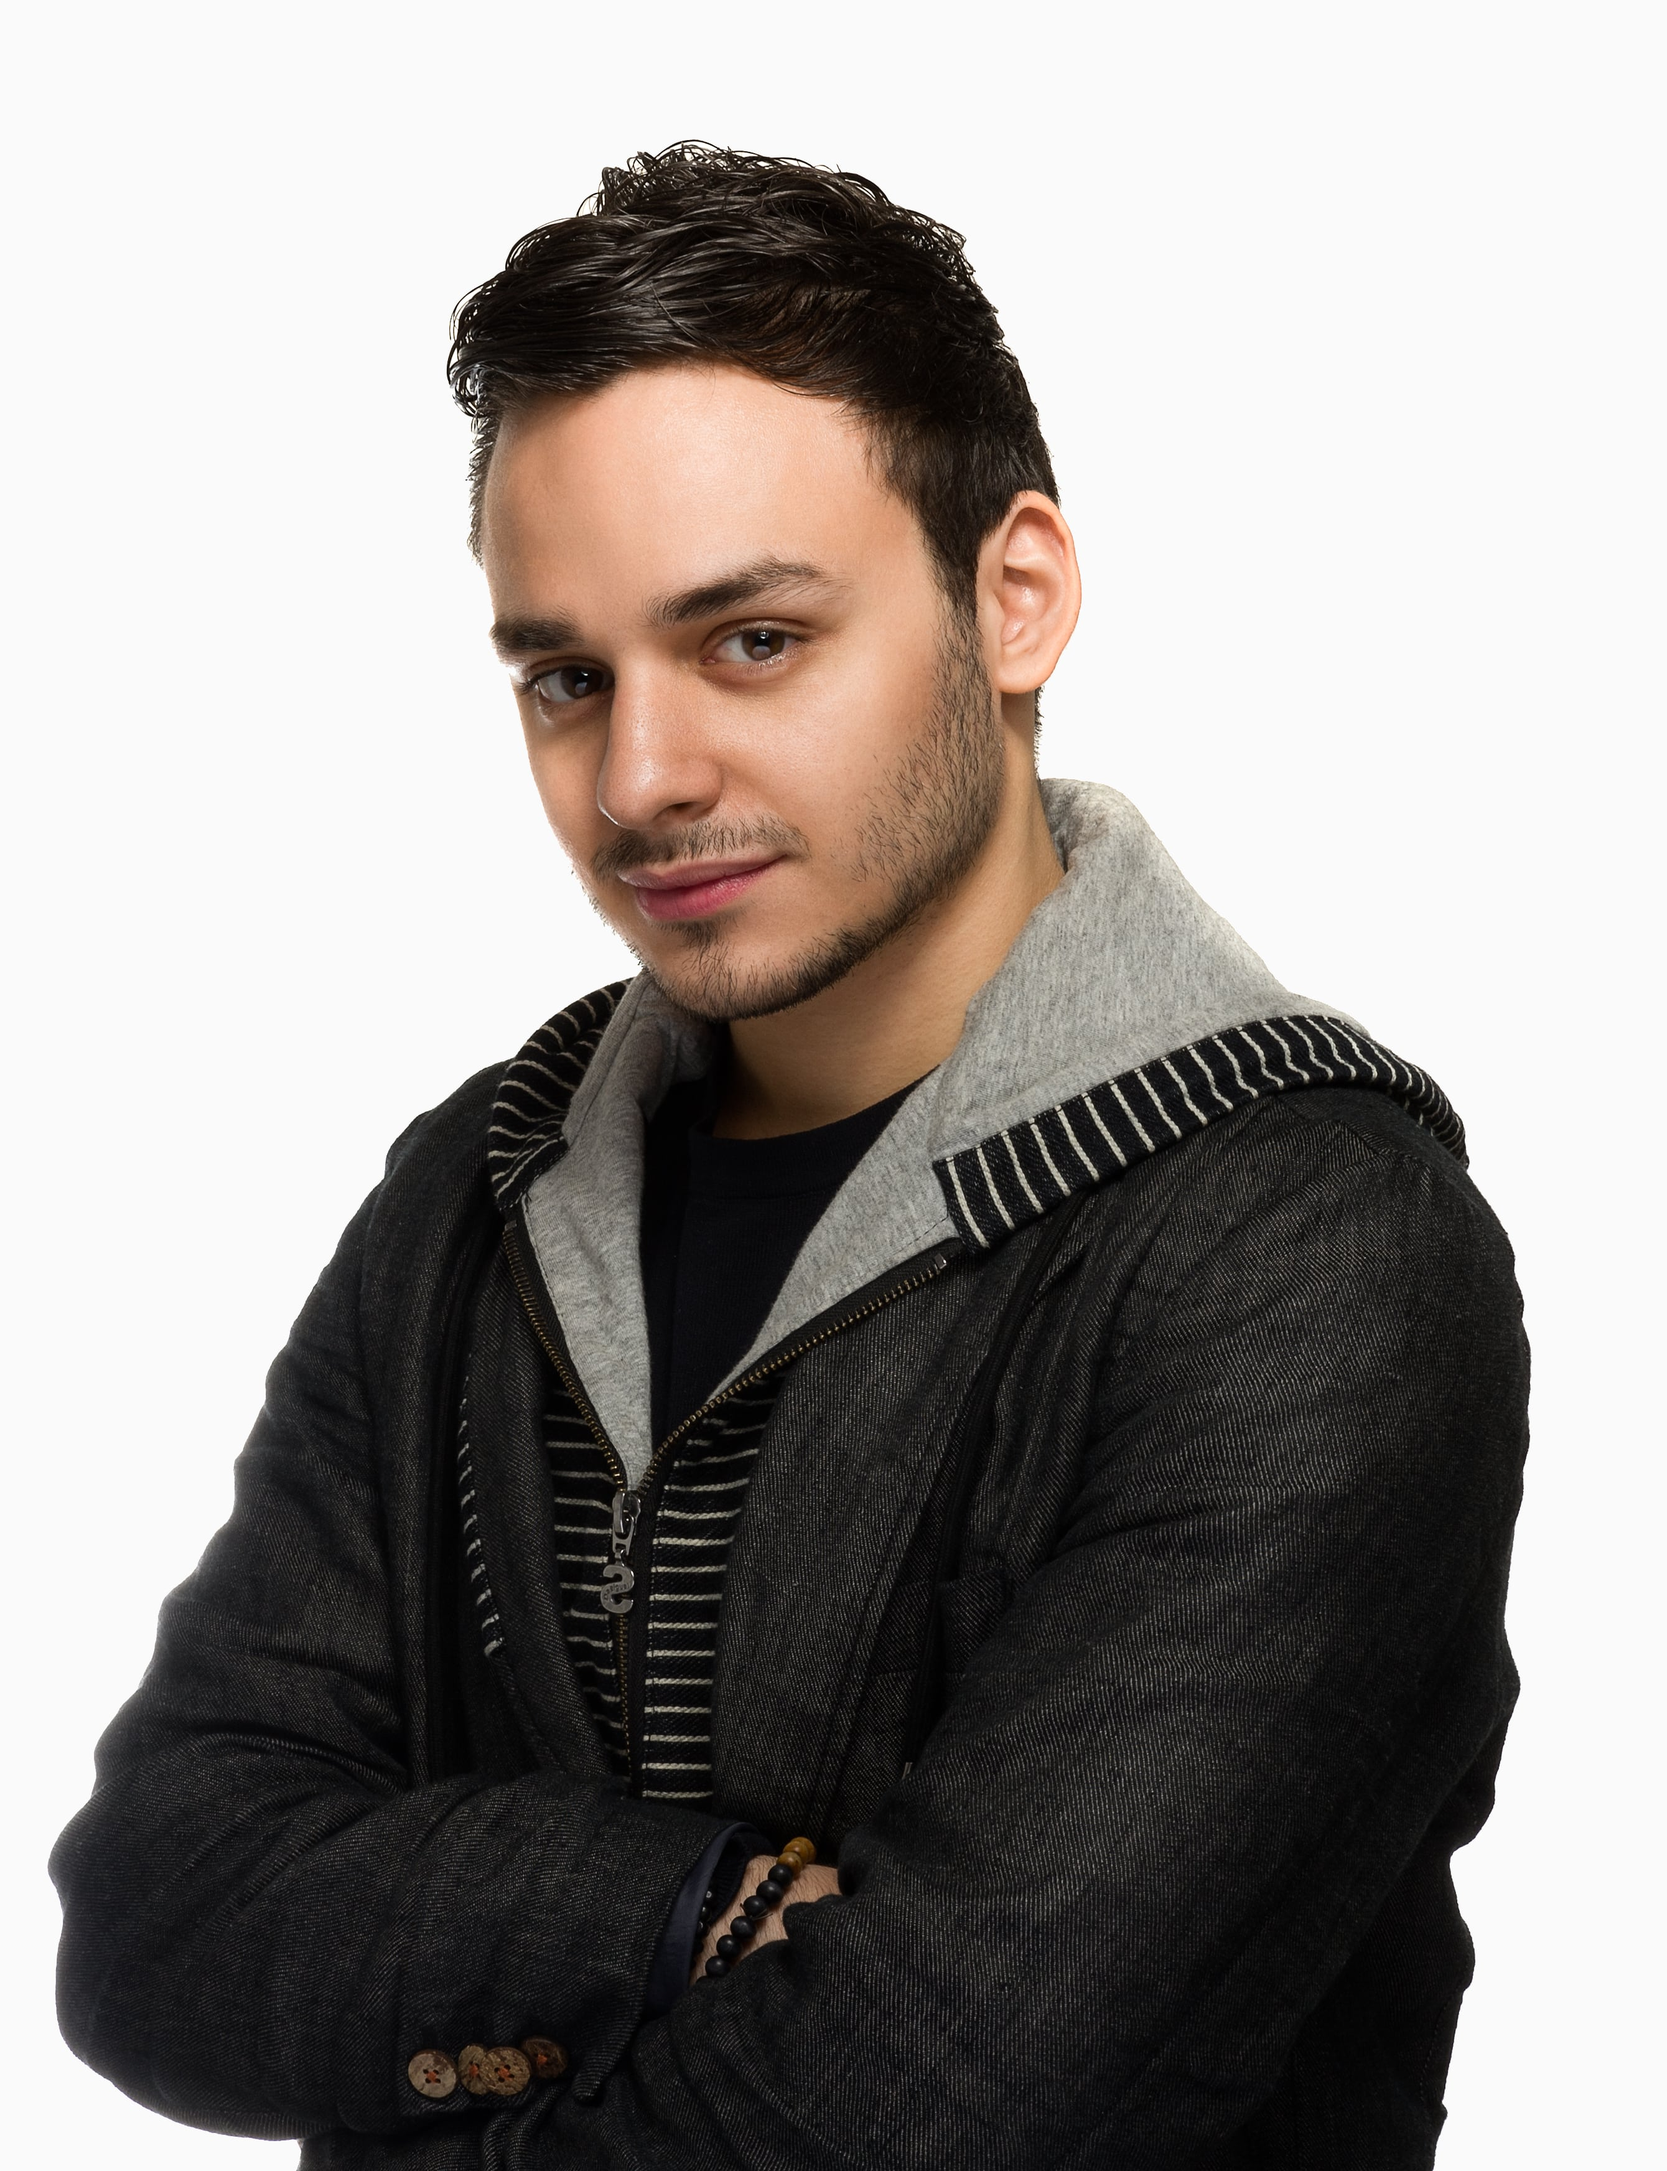
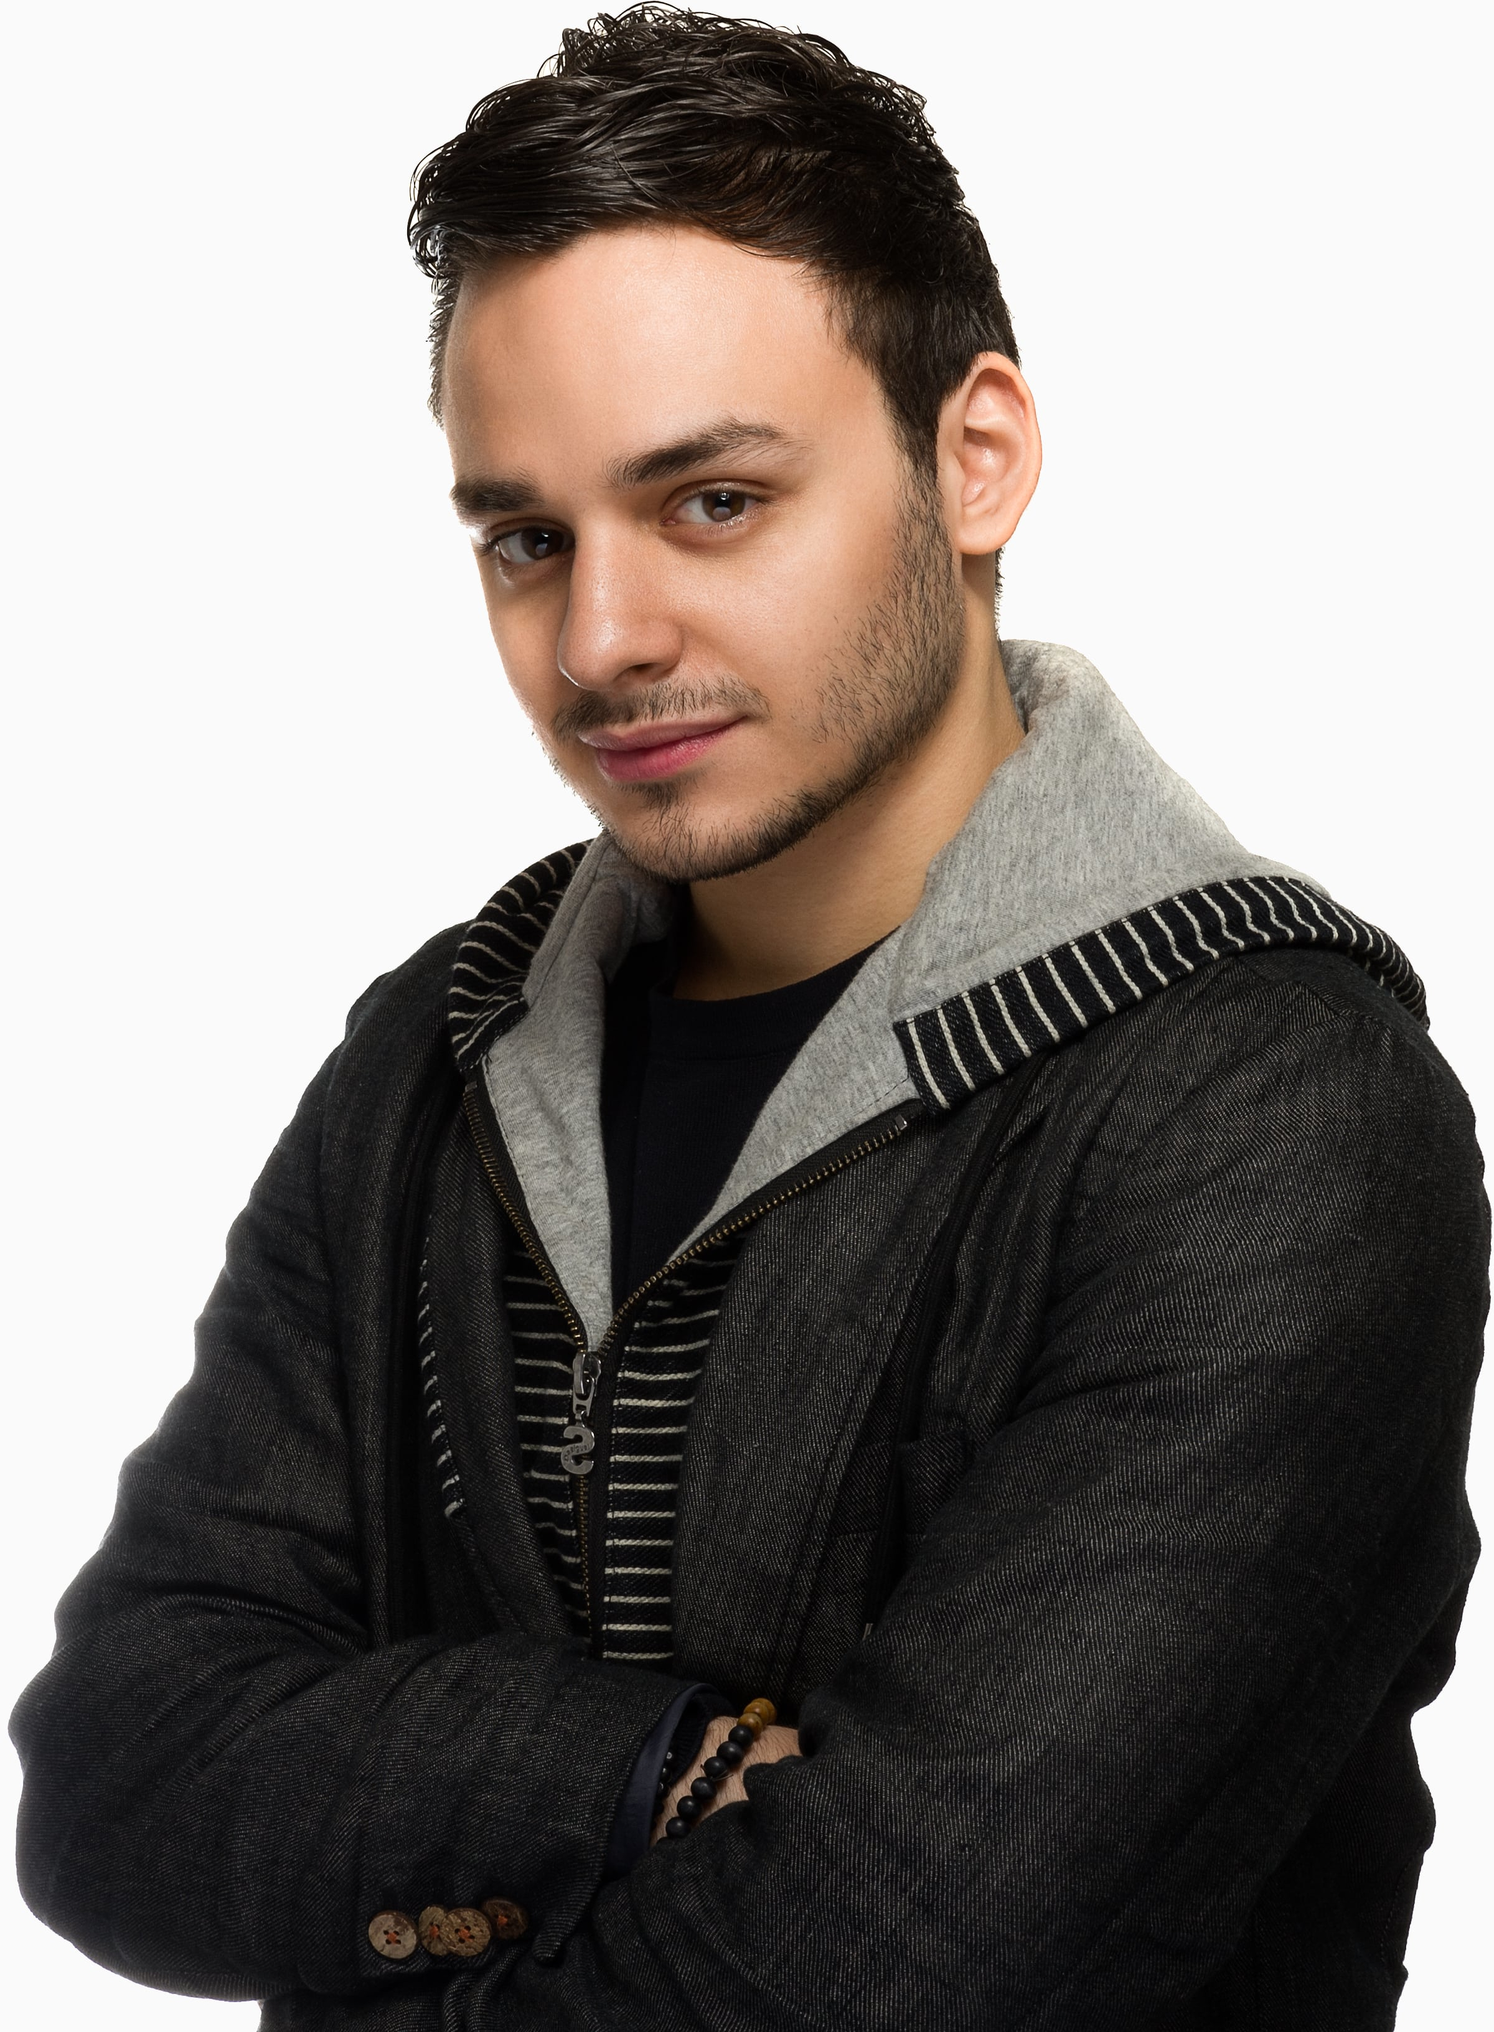
fix: add better support for the picture with grid

diff --git a/src/components/Header.tsx b/src/components/Header.tsx
@@ -1,9 +1,8 @@
 import * as React from 'react';
 import {
   Avatar,
-  Card,
-  CardContent,
   Fade,
+  Paper,
   Theme,
   Typography,
   createStyles,
@@ -13,44 +12,49 @@ import SocialButtons from './SocialButtons';
 
 const useStyles = makeStyles((theme: Theme) =>
   createStyles({
-    card: {
+    paper: {
+      gridArea: 'paper',
       display: 'flex',
       flexDirection: 'column',
       justifyContent: 'center',
-      width: '100%',
-      backgroundColor: '#fafafa',
-    },
-    content: {
-      paddingBottom: '0',
-    },
+      backgroundColor: theme.palette.background.default,
     },
     picture: {
-      display: 'flex',
-      height: '60vh',
-      width: '50vh',
-      marginLeft: theme.spacing(4),
+      gridArea: 'picture',
+      justifySelf: 'center',
+      alignSelf: 'end',
+      width: '40vh',
+      maxWidth: '100%',
+      height: 'auto',
       [theme.breakpoints.up('sm')]: {
-        height: '70vh',
-        width: '60vh',
-        marginLeft: theme.spacing(8),
+        width: '45vh',
       },
       [theme.breakpoints.up('md')]: {
-        alignSelf: 'flex-end',
-        height: '80vh',
-        width: '70vh',
-        marginLeft: theme.spacing(0),
+        justifySelf: 'start',
+        width: '65vh',
       },
     },
     root: {
-      display: 'flex',
-      flexDirection: 'column',
-      justifyContent: 'space-between',
-      alignItems: 'center',
-      height: '100vh',
-      overflow: 'hidden',
+      display: 'grid',
+      rowGap: '30px',
+      gridTemplateColumns: 'repeat(3, 1fr)',
+      gridTemplateAreas: `
+        'paper paper paper'
+        'picture picture picture'
+     `,
+      width: '100%',
+      height: '100%',
       [theme.breakpoints.up('md')]: {
-        justifyContent: 'flex-end',
-        flexDirection: 'row',
+        rowGap: '0',
+        columnGap: '50px',
+        gridTemplateRows: 'repeat(4, 1fr)',
+        gridTemplateColumns: 'repeat(12, 1fr)',
+        gridTemplateAreas: `
+          'paper paper paper paper paper paper paper picture picture picture picture picture'
+          'paper paper paper paper paper paper paper picture picture picture picture picture'
+          'paper paper paper paper paper paper paper picture picture picture picture picture'
+          'paper paper paper paper paper paper paper picture picture picture picture picture'
+        `,
       },
     },
   }),
@@ -64,25 +68,17 @@ interface HeaderProps {
 const Header = ({ subtitle, title }: HeaderProps) => {
   const classes = useStyles();
   return (
-    <Fade in={true} timeout={1000}>
+    <Fade in={true} timeout={2000}>
       <div className={classes.root}>
-        <Card className={classes.card} elevation={0}>
-          <CardContent className={classes.content}>
-            <Typography align="center" variant="h3" component="h1" gutterBottom>
-              {title}
-            </Typography>
-            <Typography
-              align="center"
-              variant="h5"
-              color="textSecondary"
-              component="h2"
-              gutterBottom
-            >
-              {subtitle}
-            </Typography>
-            <SocialButtons />
-          </CardContent>
-        </Card>
+        <Paper className={classes.paper} elevation={0}>
+          <Typography align="center" variant="h3" component="h1" gutterBottom>
+            {title}
+          </Typography>
+          <Typography align="center" color="textSecondary" variant="h5" component="h2" gutterBottom>
+            {subtitle}
+          </Typography>
+          <SocialButtons />
+        </Paper>
         <Avatar
           alt="Terencio Agozzino"
           variant="square"
